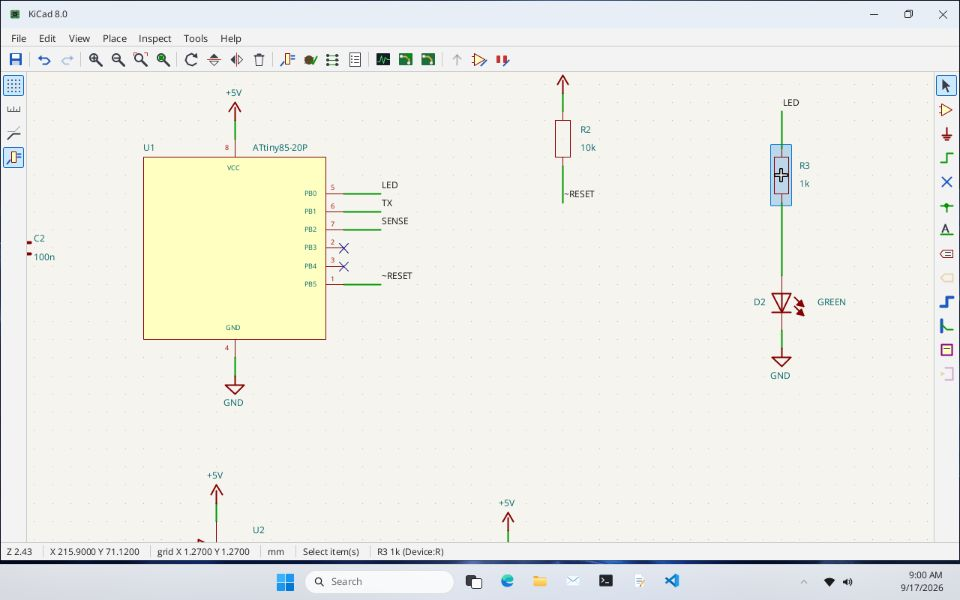
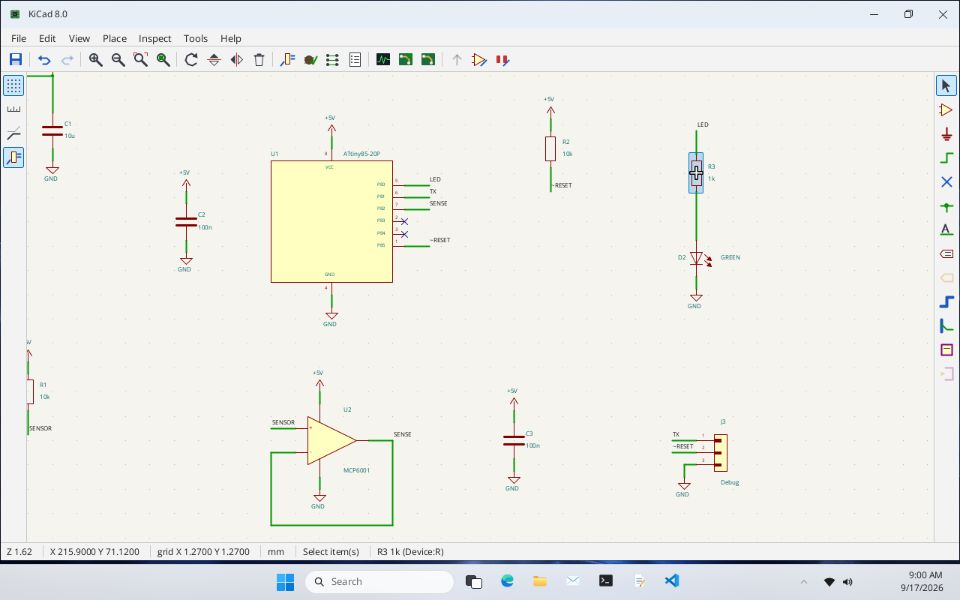
The opening slide: five machines on rev B of the sensor node
The world's design note says rev A's LED resistor was too bright at 3.3 volts and rev B
uses a kilohm, and the seeded schematic really does still read 330. That one change is
the spine of the slide. The schematic retypes R3 and runs the checks; the board takes
the update and reports no violations; the enclosure lid gets a sketch of the board's
real seventy by forty-five outline on its floor; the review shows two changed files and
the commit message; and the phone reads the thread the other three machines actually
sent. The part designator, the new value, the file names and the outline all appear on
more than one screen, so the team is visibly on one board.

diff --git a/site/scenes/hardware-team.js b/site/scenes/hardware-team.js
@@ -1,0 +1,118 @@
+// Five machines on one board: the sensor node the reference world keeps in
+// ~/Documents/KiCad/sensor-node, and the enclosure lid in ~/Documents/Parts that has to
+// go over it. Rev B of the board changes one part — the LED resistor R3, 330 Ω is
+// blinding at 3.3 V, so it becomes 1 kΩ — and every screen here is that one change:
+// Bob's schematic, the board on the bench, Alice's lid, the diff on Carol's ThinkPad,
+// and the three of them talking about it on Alice's phone.
+const GROUP = 'messages:open:+14155550100|+14155550101|+14155550102';
+
+/** Send one text into the team's group thread from a desktop. */
+const say = (pc, text) => {
+  pc.click(GROUP);            // the desktop list keeps the thread open; clicking refetches
+  pc.click('messages:compose');
+  pc.type(text);
+  pc.key('Enter');
+};
+
+export default {
+  id: 'hardware-team', title: 'Five machines on one board',
+  machines: [
+    { id: 'hardware-board', like: 'carol-ubuntu', size: [1280, 800], label: 'The lab bench · the sensor-node board, DRC after the change' },
+    { id: 'hardware-schematic', like: 'bob-windows', size: [1280, 800], label: "Bob's PC · the same project's schematic, R3 → 1 kΩ" },
+    { id: 'hardware-enclosure', like: 'alice-mac', size: [1280, 800], label: "Alice's Mac · the lid that goes over that board" },
+    { id: 'hardware-git', like: 'carol-ubuntu', size: [1280, 800], label: "Carol's ThinkPad · rev B on its way into git" },
+    { id: 'hardware-phone', like: 'alice-phone', size: [390, 844], label: "Alice's iPhone · the three of them on rev B" },
+  ],
+  open(bench, bob, alice, carol, phone) {
+    // The team talks first, from the machines they are sitting at; the phone reads the
+    // thread at the end, once every message has been sent.
+    for (const pc of [bob, alice, carol]) { pc.launch('messages'); pc.click(GROUP); }
+    say(bob, 'R3 is 330 Ω on the sensor-node and the LED is blinding at 3.3 V. Rev B takes it to 1 kΩ.');
+    say(alice, 'Fine by the lid — I am tracing the 70 × 45 board outline on the cavity floor to be sure.');
+    say(carol, 'Diff is the schematic and the BOM line, nothing else. Going in as rev B.');
+    say(bob, 'Board is updated from the schematic and DRC is clean, nothing unrouted.');
+    say(alice, 'Lid clears the connector by 1.8 mm either way. Pilot batch of five is on.');
+    for (const pc of [bob, alice, carol]) pc.step('application.v1', 'close', { window: 0 });
+
+    // Bob: the schematic, the whole circuit on the canvas, R3 retyped from 330 to 1k.
+    {
+      const ui = t => bob.step('application.v1', 'shell', { target: `window:1:content:kicad:${t}` });
+      bob.launch('kicad', 'sch|C:/Users/bob/Documents/KiCad/sensor-node/sensor-node.kicad_pro');
+      bob.step('application.v1', 'maximize', {});
+      ui('sch:zoom:objects');
+      // One zoom step about the middle of the sheet: every part of the circuit stays on
+      // the canvas. Sheet positions are in mils — R3 sits at 215.9 mm, 71.12 mm, which is
+      // 8500, 2800 — and afterwards the canvas starts at 35, 95 and shows 162 px per
+      // 1000 from 2990, 1966.
+      bob.step('pointer.v1', 'move', { x: 700, y: 400, width: 1280, height: 800 });
+      bob.key('F1');
+      const at = (x, y) => bob.clickAt(35 + Math.round((x - 2990) * 0.162), 95 + Math.round((y - 1966) * 0.162));
+      at(8500, 2800);
+      ui('sch:properties');
+      ui('field:Value');
+      for (let i = 0; i < 3; i++) bob.key('Backspace');
+      bob.type('1k');
+      ui('dlg:ok');
+      ui('sch:erc'); ui('dlg:run'); ui('dlg:ok');     // clean, and the status bar says so
+      ui('sch:save');
+      at(8500, 2800);                                  // R3 left selected, its value in hand
+    }
+
+    // The bench: the same board. Each machine here has its own disk, so Bob's one-line
+    // schematic edit arrives on this one the way a pull would land it; KiCad does the rest
+    // of the work — the board takes the new value from the schematic and is checked again.
+    {
+      const ui = t => bench.step('application.v1', 'shell', { target: `window:0:content:kicad:${t}` });
+      bench.sh(`sed -i 's/"330"/"1k"/' ~/Documents/KiCad/sensor-node/sensor-node.kicad_sch`);
+      bench.launch('kicad', 'pcb|/home/carol/Documents/KiCad/sensor-node/sensor-node.kicad_pro');
+      bench.step('application.v1', 'maximize', {});
+      ui('pcb:zoom:fit');
+      ui('pcb:update'); ui('dlg:apply'); ui('dlg:ok');  // Update PCB from Schematic: R3 → 1k
+      // R3's body, three millimetres along from the pad the footprint is placed by; the
+      // board canvas starts at 104, 136 and shows 12 px per millimetre from −3.291,
+      // −4.125 mm. Selecting it before the check leaves the part and the result together.
+      bench.clickAt(104 + Math.round((13 + 3.291) * 12), 136 + Math.round((38 + 4.125) * 12));
+      ui('pcb:save');
+      ui('pcb:drc'); ui('dlg:run'); ui('dlg:ok');
+    }
+
+    // Alice: the lid, with the board's 70 × 45 outline sketched on the cavity floor.
+    {
+      const ui = t => alice.step('application.v1', 'shell', { target: `window:1:content:freecad:${t}` });
+      alice.launch('freecad', '/Users/alice/Documents/Parts/enclosure-lid.FCStd.json');
+      alice.click('window:1:maximize');
+      ui('cmd:PartDesign_NewSketch'); ui('task:plane:DatumPlane001'); ui('task:ok');
+      ui('cmd:Std_ViewFitAll');
+      // The lid runs 0…120 by 0…80 mm; fitted, its origin is at 577, 548 and a
+      // millimetre is 3.73 px. The board sits centred in it.
+      const at = (x, y) => alice.clickAt(Math.round(577.5 + x * 3.73), Math.round(548 - y * 3.73));
+      ui('cmd:Sketcher_CreateRectangle'); at(25, 17.5); at(95, 62.5); alice.key('Escape');
+      ui('sk:element:0'); ui('cmd:Sketcher_ConstrainDistanceX'); alice.type('70'); alice.key('Enter');
+      ui('sk:element:1'); ui('cmd:Sketcher_ConstrainDistanceY'); alice.type('45'); alice.key('Enter');
+      ui('sk:close');
+      ui('tree:Sketch002'); ui('prop:Label');   // the property field opens on its value
+      alice.type('sensor-node board 70 × 45');
+      alice.key('Enter');
+      ui('tree-eye:DatumPlane'); ui('tree-eye:DatumPlane001');   // the datum planes out of the way
+      ui('cmd:Std_ViewIsometric'); ui('cmd:Std_ViewFitAll');
+      ui('tree:Sketch002');
+    }
+
+    // Carol: the same project under git, the change waiting to go in.
+    {
+      carol.sh('cd ~/Documents/KiCad/sensor-node && git init && git add . && git commit -m "sensor-node rev A"');
+      carol.sh(`cd ~/Documents/KiCad/sensor-node && sed -i 's/"330"/"1k"/' sensor-node.kicad_sch sensor-node-bom.csv`);
+      carol.launch('code', '/home/carol/Documents/KiCad/sensor-node');
+      carol.step('application.v1', 'maximize', {});
+      carol.click('code:tree:sensor-node-bom.csv');
+      carol.clickAt(500, 304);                         // the R3 line of the bill of materials
+      carol.click('code:activity:scm');
+      carol.click('code:scm-message');
+      carol.type('rev B: R3 330 Ω → 1 kΩ');
+    }
+
+    // The phone, last: every message is in by now.
+    phone.launch('messages');
+    phone.click(GROUP);
+  },
+};
